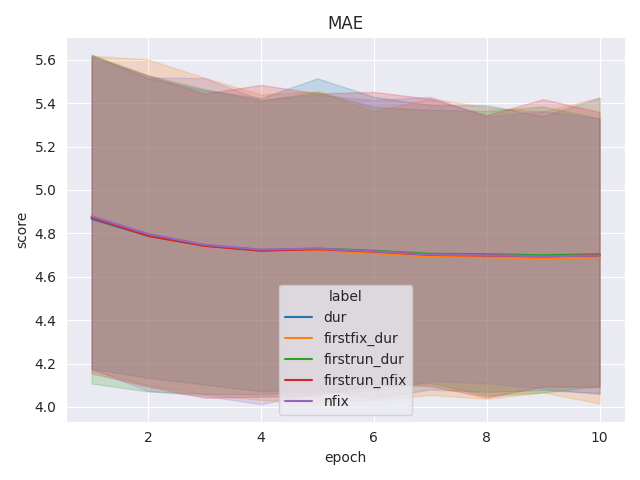
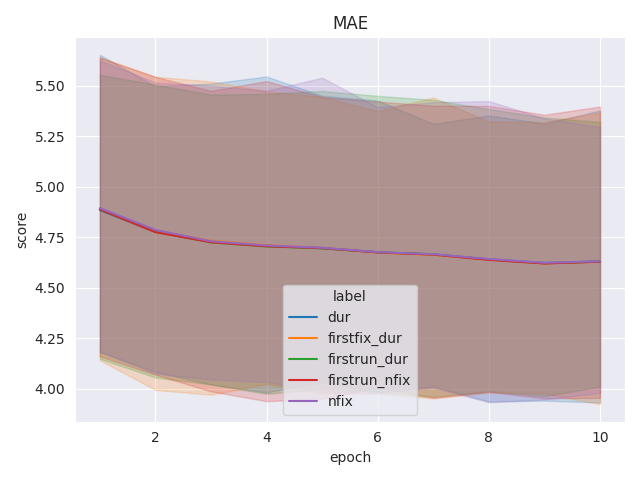
added lora finetuning and changed attention correlation comparison

diff --git a/scripts/eval/extract_attention_correlations.py b/scripts/eval/extract_attention_correlations.py
@@ -1,0 +1,125 @@
+import os
+import sys
+sys.path.append(os.path.abspath(".")) 
+
+import warnings
+warnings.simplefilter(action='ignore', category=FutureWarning)
+
+from modules.data.dataset_utils import create_senteces_from_data
+from modules.data.attention_utils import save_dictionary
+from scipy.stats import spearmanr
+import matplotlib.pyplot as plt
+import seaborn as sns
+import pandas as pd
+import numpy as np
+import argparse
+import json
+import re
+
+sns.set_style('darkgrid')
+
+
+def load_eye_tracking_data(src_path, col):
+    """Load and preprocess eye-tracking data."""
+    data = pd.read_csv(src_path, index_col=0)
+    gaze_dataset = create_senteces_from_data(data, [col], keep_id=True)
+    return gaze_dataset
+
+
+def load_json(src_path):
+    """Load model attention data from a JSON file."""
+    with open(src_path, 'r') as src_file:
+        return json.load(src_file)
+
+
+def normalize_list(l):
+    """Normalize a list of values to the range [0, 1]."""
+    l = np.array(l)
+    return ((l - l.min()) / (l.max() - l.min())).tolist()
+
+
+def compute_correlation(eye_tracking_dataset, model_attention_dict, positive_corr=True):
+    """Compute the Spearman correlation between eye-tracking and model attention data."""
+    all_human_attentions = []
+    all_model_attentions = []
+
+    feature_name = [col for col in eye_tracking_dataset.column_names if col not in ['id', 'text']][0]
+
+    for sent_id, human_attention in zip(eye_tracking_dataset['id'], eye_tracking_dataset[feature_name]):
+        if sent_id in model_attention_dict:
+            model_attention = model_attention_dict[sent_id]
+            all_human_attentions += normalize_list(human_attention)
+            all_model_attentions += normalize_list(model_attention)
+
+    s = spearmanr(all_model_attentions, all_human_attentions)
+    if s.pvalue < 0.05:
+        return max(s.statistic, -s.statistic) if positive_corr else s.statistic
+    return None
+
+def compute_attention_correlation(model_dir, eye_tracking_data, positive_correlation):
+    correlations_dict = {}
+    for layer in range(12):
+        layer_attention_path = os.path.join(model_dir, f'{layer}.json')
+        layer_attention = load_json(layer_attention_path)
+        corr = compute_correlation(eye_tracking_data, layer_attention, positive_correlation)
+        correlations_dict[layer] = corr
+    return correlations_dict
+
+def compute_attention_correlation_checkpoints(model_dir, eye_tracking_data, positive_correlation):
+    correlations_dict = {}
+    for checkpoint_name in os.listdir(model_dir):
+        checkpoint_dir = os.path.join(model_dir, checkpoint_name)
+        checkpoint_num = int(checkpoint_name.split('-')[-1])
+        checkpoint_correlations = compute_attention_correlation(checkpoint_dir, eye_tracking_data, positive_correlation)
+        correlations_dict[checkpoint_num] = checkpoint_correlations
+    return correlations_dict
+
+def find_last_checkpoint(model_dir):
+    dir_content = os.listdir(model_dir)
+    if dir_content[0].startswith('checkpoint'):
+        checkpoints = [int(el.split('-')[-1]) for el in dir_content]
+        last_checkpoint = sorted(checkpoints)[-1]
+        return os.path.join(model_dir, f'checkpoint-{last_checkpoint}')
+    else:
+        return model_dir
+
+
+def init_correlations_dict(all_correlations_json_path, model_string):
+    if os.path.exists(all_correlations_json_path):
+        all_correlations_dict = load_json(all_correlations_json_path)
+    else:
+        all_correlations_dict = {}
+    all_correlations_dict[model_string] =  {}
+    return all_correlations_dict
+    
+def main():
+    parser = argparse.ArgumentParser()
+    parser.add_argument('-f', '--eye_tracking_feature', type=str, default='dur', help='Eye-tracking feature used to compute correlation.')
+    parser.add_argument('-p', '--positive_correlation', type=bool, default=True, help='Computes the absolute value of correlation coefficients.')
+    parser.add_argument('-i', '--models_input_directory', type=str, help='Directory from where to load models\' attentions.')
+    parser.add_argument('-s', '--model_string', type=str, help='The string to use to identify the models\' correlations.')
+    parser.add_argument('-o', '--output_path', type=str, default='attentions/all_correlations.json', help='The json file where to save the extracted attentions.')
+    parser.add_argument('-c', '--all_checkpoints', action='store_true')
+    args = parser.parse_args()
+
+    eye_tracking_dir = 'data/geco/dataset/'
+     
+    all_correlations_dict = init_correlations_dict(args.output_path, args.model_string)
+
+    for model_name in os.listdir(args.models_input_directory):
+        model_dir = os.path.join(args.models_input_directory, model_name)
+        user_id = int(re.findall(r'pp(\d*)$', model_name)[0])
+        eye_tracking_path = os.path.join(eye_tracking_dir, f'pp{user_id}_dataset_test.csv')
+        eye_tracking_data = load_eye_tracking_data(eye_tracking_path, args.eye_tracking_feature)
+        if not args.all_checkpoints:
+            model_dir = find_last_checkpoint(model_dir)
+            correlation_dict = compute_attention_correlation(model_dir, eye_tracking_data, args.positive_correlation)
+        else: 
+            correlations_dict = compute_attention_correlation_checkpoints(model_dir, eye_tracking_data, args.positive_correlation)  
+        
+    all_correlations_dict[args.model_string][user_id] = correlation_dict
+    save_dictionary(all_correlations_dict, args.output_path)    
+    
+    
+if __name__ == '__main__':
+    main()

diff --git a/scripts/lora_finetuning.py b/scripts/lora_finetuning.py
@@ -1,0 +1,139 @@
+import sys
+import os
+sys.path.append(os.path.abspath('.'))
+
+from modules.modeling.model_utils import get_tokenizer_name
+from peft import LoraConfig, get_peft_model, TaskType, PeftModel
+from transformers import (
+    AutoModelForSequenceClassification, 
+    DataCollatorWithPadding,
+    TrainingArguments, 
+    AutoTokenizer, 
+    set_seed, 
+    Trainer,    
+)
+
+from datasets import Dataset
+import pandas as pd
+import argparse
+import evaluate
+
+
+FREEZE_LAYERS_MAP = {
+    'regressor_only': ['classifier'],
+    'last_2': ['classifier', 'encoder.layer.11', ],
+    'last_3': ['classifier', 'encoder.layer.11', 'encoder.layer.10']
+
+}
+
+SEED = 42 
+
+def load_complexity_dataset(src_path:str) -> Dataset:
+    df = pd.read_csv(src_path)
+    annotators_columns = [col for col in df.columns if col.startswith('judgement')]
+    df['label'] = df[annotators_columns].mean(axis=1)
+    df = df[['SENTENCE', 'label']]
+    df = df.rename(columns={'SENTENCE': 'text'})
+    return Dataset.from_pandas(df)
+
+def main():
+    parser = argparse.ArgumentParser()
+    parser.add_argument('-m', '--model_path', dest='model_path')
+    parser.add_argument('-b', '--batch_size', type=int, default=16)
+    parser.add_argument('-l', '--learning_rate', dest='learning_rate', type=float, default=5e-05)
+    parser.add_argument('-e', '--epochs', dest='training_epochs', type=int, default=10)
+    parser.add_argument('-d', '--weight_decay', dest='weight_decay', type=float, default=1.0)
+    parser.add_argument('-f', '--freeze_layers', type=str, default=None)
+    args = parser.parse_args()
+
+    set_seed(SEED)
+
+    model_string = '_'.join(args.model_path.split('/')[-1].split('_')[:2])
+
+    train_path = 'data/complexity/complexity_ds_en_train.csv'
+    test_path = 'data/complexity/complexity_ds_en_test.csv'
+
+    output_dir = os.path.join('models/lora_complexity', model_string)
+
+    
+    train_dataset = load_complexity_dataset(train_path)
+    test_dataset = load_complexity_dataset(test_path)
+
+    tokenizer_name = get_tokenizer_name(model_string)
+    tokenizer = AutoTokenizer.from_pretrained(tokenizer_name, add_prefix_space=True)
+
+    def preprocess_function(examples):
+        return tokenizer(examples['text'], truncation=True)
+
+
+    tokenized_train_dataset = train_dataset.map(preprocess_function, desc="Running tokenizer on train dataset")
+    tokenized_test_dataset = test_dataset.map(preprocess_function, desc="Running tokenizer on dataset")
+    
+    data_collator = DataCollatorWithPadding(tokenizer=tokenizer)
+    
+
+
+    mae = evaluate.load('mae')
+    spearmanr = evaluate.load("spearmanr")
+    def compute_metrics(eval_pred):
+        logits, labels = eval_pred
+        labels = labels.reshape(-1, 1)
+        res = {
+                'mae': mae.compute(predictions=logits, references=labels)['mae'],
+                'spearmanr': spearmanr.compute(predictions=logits, references=labels)['spearmanr']
+            }            
+        return res
+
+    
+    model = AutoModelForSequenceClassification.from_pretrained(args.model_path, num_labels=1)
+    
+
+    lora_config = LoraConfig(
+        r=32,
+        lora_alpha=8,
+        target_modules=["query", "value"],
+        lora_dropout=0.05,
+        bias="none",
+        task_type=TaskType.SEQ_CLS, # this is necessary
+        inference_mode=False
+    )
+
+    model = get_peft_model(model, lora_config)
+
+    training_args = TrainingArguments(
+        output_dir=output_dir+'_adapters', 
+        eval_strategy='epoch',
+        logging_strategy='epoch',
+        logging_dir=output_dir+'_adapters',
+        per_device_train_batch_size=args.batch_size,
+        per_device_eval_batch_size=args.batch_size,
+        num_train_epochs=args.training_epochs,
+        learning_rate=args.learning_rate,
+        weight_decay=args.weight_decay,
+        warmup_steps=500,
+        save_strategy='no' 
+        )
+    
+
+    trainer = Trainer(
+        model=model,
+        args=training_args,
+        train_dataset=tokenized_train_dataset,
+        eval_dataset=tokenized_test_dataset,
+        data_collator=data_collator,
+        compute_metrics=compute_metrics,
+    )
+
+    trainer.train()
+    trainer.save_model(output_dir+'_adapters')
+    trainer.save_state()
+
+    original_model = AutoModelForSequenceClassification.from_pretrained(args.model_path, num_labels=1)
+    original_with_adapter = PeftModel.from_pretrained(original_model, output_dir+'_adapters')
+    merged_model = original_with_adapter.merge_and_unload()
+    merged_model.save_pretrained(output_dir)    
+    
+
+
+if __name__ == '__main__':
+    main()

diff --git a/scripts/eval/compare_correlations.py b/scripts/eval/compare_correlations.py
@@ -1,0 +1,72 @@
+import os
+
+import warnings
+warnings.simplefilter(action='ignore', category=FutureWarning)
+
+import os
+import json
+import pandas as pd
+import seaborn as sns
+import matplotlib.pyplot as plt
+
+sns.set_style('darkgrid')
+
+
+
+def load_json(src_path):
+    """Load model attention data from a JSON file."""
+    with open(src_path, 'r') as src_file:
+        return json.load(src_file)
+
+
+
+def plot_correlations(correlation_df, plots_dir, out_dir, grouping_variable='epoch'):
+    """Plot correlation heatmaps across epochs or other grouping variables and save the plot."""
+    vmin, vmax = correlation_df['correlation'].min(), correlation_df['correlation'].max()
+    var_values = sorted(correlation_df[grouping_variable].unique())
+    y_size = len(var_values) * 6
+    fig, axes = plt.subplots(len(var_values), 1, sharex=True, figsize=(10, y_size))
+    
+    if len(var_values) == 1:
+        axes = [axes]  # Ensure axes is always a list for consistency
+
+    for idx, value in enumerate(var_values):
+        pivoted_df = correlation_df[correlation_df[grouping_variable] == value].pivot(index='user', columns='layer', values='correlation')
+        sns.heatmap(data=pivoted_df, annot=True, cmap='crest', cbar=False, ax=axes[idx], vmin=vmin, vmax=vmax)
+        axes[idx].set_title(f'{grouping_variable} {value}')
+        axes[idx].set_yticklabels(axes[idx].get_yticklabels(), rotation=0)
+
+    plt.tight_layout()
+    fig.savefig(os.path.join(plots_dir, f'roberta_base_{out_dir}.png'))
+
+def convert_dict_to_df(correlations_dict):
+    df_dict = {'model':[], 'user':[], 'layer':[], 'score':[]}
+    for model, model_correlations in correlations_dict.items():
+        for user, user_correlations in model_correlations.items():
+            for layer, score in user_correlations.items():
+                df_dict['model'].append(model)
+                df_dict['user'].append(int(user))
+                df_dict['layer'].append(int(layer))
+                df_dict['score'].append(score)
+    return pd.DataFrame.from_dict(df_dict)
+
+
+def main():
+    json_correlations_path = 'attentions/all_correlations.json'
+    output_path = 'results/attention_correlations/attention_correlation_comparison.png'
+    
+    correlations_dict = load_json(json_correlations_path)
+    correlations_df = convert_dict_to_df(correlations_dict)
+
+    grouped_df = correlations_df[['model', 'layer', 'score']].groupby(['model', 'layer']).mean().reset_index()
+    pivoted_df = grouped_df.pivot(index='model', columns='layer', values='score')
+    sns.heatmap(pivoted_df, annot=True, cmap='crest', cbar=False)
+
+    # p = sns.lineplot(data=correlations_df, x='layer', y='score', hue='model')
+    # p.figure.savefig(output_path)
+
+    # plot_correlations(all_correlations_df, plots_dir, args.downstream_task, grouping_variable)
+
+
+if __name__ == '__main__':
+    main()

diff --git a/scripts/eval/attention_correlation.py b/scripts/eval/attention_correlation.py
@@ -106,9 +106,9 @@ def attention_correlation_base(eye_tracking_dir, src_attention_dir, grouping_var
             epoch = int(checkpoint_dir.split('-')[-1]) * 10           
             extract_layers_correlations(checkpoint_dir, eye_tracking_data, args.positive_correlation, all_correlation_dict, epoch, user_id, grouping_variable)
 
-    baseline_attention_dir = os.path.join(src_attention_dir, 'base', 'roberta-base')
-    for epoch in list(set(all_correlation_dict['epoch'])):
-        extract_layers_correlations(baseline_attention_dir, eye_tracking_data, args.positive_correlation, all_correlation_dict, epoch, 'no_ft', grouping_variable)
+    # baseline_attention_dir = os.path.join(src_attention_dir, 'base', 'roberta-base')
+    # for epoch in list(set(all_correlation_dict['epoch'])):
+    #     extract_layers_correlations(baseline_attention_dir, eye_tracking_data, args.positive_correlation, all_correlation_dict, epoch, 'no_ft', grouping_variable)
     all_correlations_df = pd.DataFrame.from_dict(all_correlation_dict)
     
     return all_correlations_df
@@ -148,6 +148,9 @@ def main():
     eye_tracking_dir = 'data/geco/dataset/'
     model_attention_dir = args.model_input_directory
     plots_dir = f'results/attention_correlations/{args.downstream_task}'
+    
+    if not os.path.exists(plots_dir):
+        os.makedirs(plots_dir)
 
     if args.downstream_task == 'base' or 'interleaved' in args.downstream_task:
         grouping_variable = 'epoch'

diff --git a/scripts/eye_gaze_finetuning.py b/scripts/eye_gaze_finetuning.py
@@ -19,7 +19,7 @@ def main():
     parser = argparse.ArgumentParser()
     parser.add_argument('-m', '--model_name', dest='model_name', type=str, default='FacebookAI/roberta-base')
     parser.add_argument('-u', '--user_id', dest='user_id', type=int, default=21)
-    parser.add_argument('-b', '--batch_size', type=int, default=32)
+    parser.add_argument('-b', '--batch_size', type=int, default=16)
     parser.add_argument('-l', '--learning_rate', dest='learning_rate', type=float, default=1e-05)
     parser.add_argument('-e', '--epochs', dest='training_epochs', type=int, default=50)
     parser.add_argument('-d', '--weight_decay', dest='weight_decay', type=float, default=0.0)
@@ -33,7 +33,7 @@ def main():
     test_path = f'data/geco/dataset/pp{args.user_id}_dataset_test.csv'
 
     loss_dir = 'weighted_loss' if args.weighted_loss else 'average_loss'
-    model_out_dir = f'models/eye_gaze_finetuning/{loss_dir}/{args.training_epochs}epochs_lr{args.learning_rate}_bs8/{model_string}_pp{args.user_id}'
+    model_out_dir = f'models/eye_gaze_finetuning/{loss_dir}/{args.training_epochs}epochs_lr{args.learning_rate}/{model_string}_pp{args.user_id}'
 
     # if args.weight_decay > 0:
     #     model_out_dir += '_wd'
